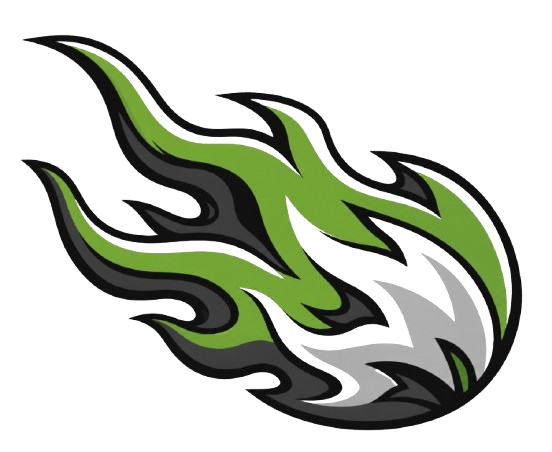
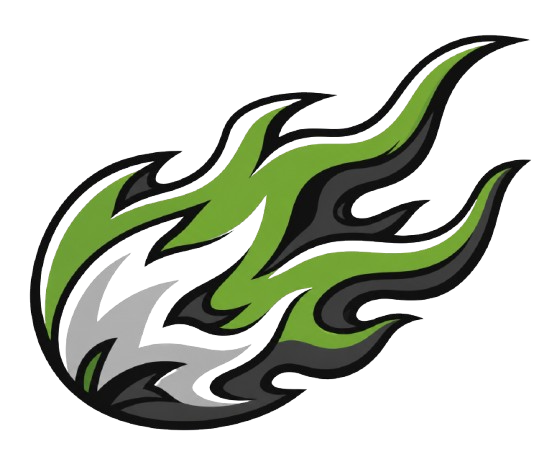
fixed flame

diff --git a/components/hero.tsx b/components/hero.tsx
@@ -1,60 +1,77 @@
 export default function Hero() {
   return (
-    <section className="relative isolate min-h-[92vh] overflow-hidden bg-white text-slate-900">
-      <div className="absolute inset-0 -z-10 bg-[radial-gradient(circle_at_50%_35%,rgba(132,204,22,0.22),transparent_34%)]" />
+    <section className="relative isolate overflow-hidden bg-white text-slate-900">
+      <div className="absolute inset-0 -z-10 bg-[radial-gradient(circle_at_50%_28%,rgba(132,204,22,0.28),transparent_38%)]" />
+      <div className="absolute inset-x-0 bottom-0 -z-10 h-40 bg-gradient-to-t from-lime-50/80 to-transparent" />
 
-      <div className="mx-auto flex min-h-[92vh] w-full max-w-7xl flex-col items-center px-6 pb-28 pt-28 text-center sm:px-8 lg:px-10 lg:pb-40">
-        <p className="mb-5 inline-flex rounded-full border border-lime-200 bg-lime-50 px-4 py-2 text-xs font-black uppercase tracking-[0.26em] text-lime-700 sm:text-sm">
+      <div className="mx-auto flex min-h-[86vh] w-full max-w-7xl flex-col items-center px-5 pb-14 pt-24 text-center sm:px-8 sm:pb-20 sm:pt-28 lg:px-10 lg:pb-28">
+        <p className="mb-4 inline-flex rounded-full border border-lime-200 bg-lime-50 px-4 py-2 text-[0.68rem] font-black uppercase tracking-[0.22em] text-lime-700 shadow-sm sm:mb-5 sm:text-sm">
           Lawn Maintenance • Strimming • Free Quotes
         </p>
 
-        <div className="relative w-full max-w-6xl overflow-hidden rounded-[2rem] border border-lime-100 bg-slate-900 shadow-2xl shadow-lime-900/10">
-          <img
-            src="/grass.jpg"
-            alt="Freshly cut striped lawn"
-            className="h-[280px] w-full object-cover sm:h-[360px] lg:h-[430px]"
-          />
-          <div className="absolute inset-0 bg-gradient-to-r from-black/55 via-black/20 to-transparent" />
+        <div className="relative w-full max-w-6xl overflow-visible rounded-[1.75rem] border border-lime-100 bg-slate-900 shadow-2xl shadow-lime-900/10 sm:rounded-[2rem]">
+          <div className="relative overflow-hidden rounded-[1.75rem] sm:rounded-[2rem]">
+            <img
+              src="/grass.jpg"
+              alt="Freshly cut striped lawn"
+              className="h-[460px] w-full object-cover sm:h-[430px] lg:h-[520px]"
+            />
+            <div className="absolute inset-0 bg-gradient-to-b from-black/20 via-black/25 to-black/65 sm:bg-gradient-to-r sm:from-black/65 sm:via-black/25 sm:to-transparent" />
 
-          <div className="absolute left-6 top-1/2 max-w-md -translate-y-1/2 text-left sm:left-10">
-            <p className="mb-3 text-sm font-black uppercase tracking-[0.25em] text-lime-300">
-              G1M Gardening
-            </p>
-            <h1 className="text-4xl font-black uppercase leading-tight tracking-tight text-white sm:text-5xl lg:text-6xl">
-              Performance Gardening.
-              <span className="block text-lime-300">Powered by G1M.</span>
-            </h1>
+            <div className="absolute inset-x-5 top-7 z-20 text-left sm:inset-x-auto sm:left-10 sm:top-1/2 sm:max-w-md sm:-translate-y-1/2 lg:left-14 lg:max-w-xl">
+              <p className="mb-3 text-xs font-black uppercase tracking-[0.25em] text-lime-300 sm:text-sm">
+                G1M Gardening
+              </p>
+              <h1 className="text-3xl font-black uppercase leading-tight tracking-tight text-white sm:text-5xl lg:text-6xl">
+                Performance Gardening.
+                <span className="block text-lime-300">Powered by G1M.</span>
+              </h1>
 
-            <div className="mt-6 flex flex-col gap-3 sm:flex-row">
-              <a
-                href="#calculator"
-                className="inline-flex items-center justify-center rounded-full bg-lime-500 px-7 py-3 text-xs font-black uppercase tracking-wide text-white transition hover:bg-lime-600"
-              >
-                Get Online Estimate
-              </a>
-              <a
-                href="#services"
-                className="inline-flex items-center justify-center rounded-full border border-white/35 bg-white/15 px-7 py-3 text-xs font-black uppercase tracking-wide text-white backdrop-blur transition hover:border-lime-300 hover:text-lime-300"
-              >
-                View Services
-              </a>
+              <div className="mt-5 flex flex-col gap-3 sm:mt-6 sm:flex-row">
+                <a
+                  href="#calculator"
+                  className="inline-flex items-center justify-center rounded-full bg-lime-500 px-7 py-3 text-xs font-black uppercase tracking-wide text-white shadow-lg shadow-lime-950/20 transition hover:bg-lime-600"
+                >
+                  Get Online Estimate
+                </a>
+                <a
+                  href="#services"
+                  className="inline-flex items-center justify-center rounded-full border border-white/35 bg-white/15 px-7 py-3 text-xs font-black uppercase tracking-wide text-white backdrop-blur transition hover:border-lime-300 hover:text-lime-300"
+                >
+                  View Services
+                </a>
+              </div>
             </div>
+          </div>
+
+          <div className="pointer-events-none absolute -bottom-8 left-1/2 z-30 w-[95vw] max-w-[520px] -translate-x-1/2 sm:-bottom-28 sm:max-w-3xl lg:-bottom-36 lg:left-[68%] lg:w-[56vw] lg:max-w-5xl">
+            <img
+              src="/flame2.png"
+              alt=""
+              className="animate-flame absolute right-[-18%] top-[38%] z-0 w-[55%] max-w-[420px] opacity-100 sm:right-[-10%] sm:top-[45%] sm:w-[50%] lg:max-w-[500px]"
+            />
+
+            <img
+              src="/mower2.png"
+              alt="G1M racing lawn mower"
+              className="animate-mower relative z-10 w-full scale-90 sm:scale-100 drop-shadow-2xl"
+            />
           </div>
         </div>
 
-
-        <div className="pointer-events-none absolute bottom-[10px] left-1/2 z-10 w-[82vw] max-w-4xl -translate-x-1/2 sm:bottom-[-10px] lg:bottom-[-30px] lg:left-[63%] lg:w-[48vw]">
-          <img
-            src="/flame2.png"
-            alt=""
-            className="animate-flame absolute left-[-8%] top-[52%] z-0 w-[40%] max-w-[260px] opacity-95"
-          />
-
-          <img
-            src="/mower2.png"
-            alt="G1M racing lawn mower"
-            className="animate-mower relative z-10 w-full drop-shadow-2xl"
-          />
+        <div className="mt-24 grid w-full max-w-3xl grid-cols-1 gap-3 text-left sm:mt-32 sm:grid-cols-3 lg:mt-40">
+          <div className="rounded-2xl border border-lime-100 bg-white/90 px-4 py-3 shadow-lg shadow-lime-900/5 backdrop-blur">
+            <p className="text-xs font-black uppercase tracking-[0.18em] text-lime-700">Local</p>
+            <p className="mt-1 text-sm font-bold text-slate-800">Reliable garden care</p>
+          </div>
+          <div className="rounded-2xl border border-lime-100 bg-white/90 px-4 py-3 shadow-lg shadow-lime-900/5 backdrop-blur">
+            <p className="text-xs font-black uppercase tracking-[0.18em] text-lime-700">Fast</p>
+            <p className="mt-1 text-sm font-bold text-slate-800">Online lawn estimates</p>
+          </div>
+          <div className="rounded-2xl border border-lime-100 bg-white/90 px-4 py-3 shadow-lg shadow-lime-900/5 backdrop-blur">
+            <p className="text-xs font-black uppercase tracking-[0.18em] text-lime-700">Clean</p>
+            <p className="mt-1 text-sm font-bold text-slate-800">Professional finish</p>
+          </div>
         </div>
       </div>
     </section>